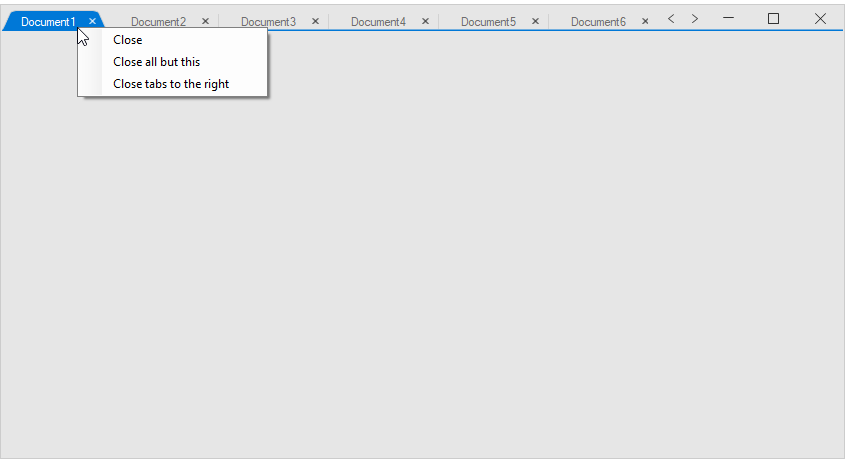
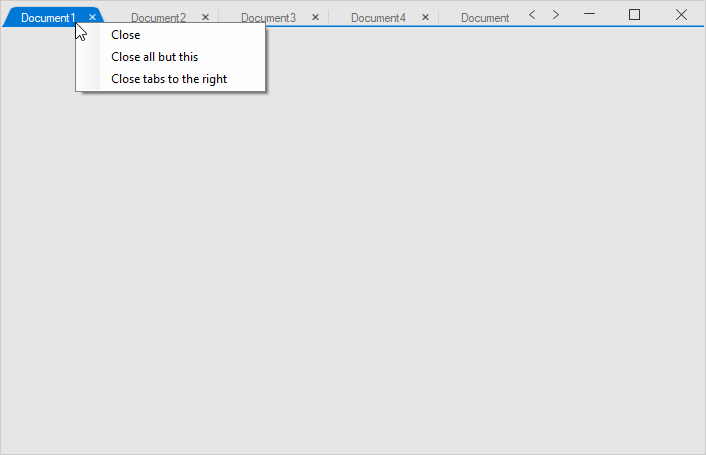
Changes have been done as per the concerns given.

Changed region(s): [[0.0, 0.0, 1.0, 0.2154]]

diff --git a/WindowsForms/SfTabbedForm/TabSelection.md b/WindowsForms/SfTabbedForm/TabSelection.md
@@ -1,0 +1,102 @@
+---
+layout: post
+title: TabSelection | TabbedForm | WindowsForms | Syncfusion
+description: This section explains about programmatic selection of tab in SfTabbedForm.
+platform: WindowsForms
+control: SfTabbedForm
+documentation: ug
+---
+
+# Tab Selection
+
+Tab selection can be done programmatically using the [TabbedFormControl.SelectedIndex](https://help.syncfusion.com/cr/windowsforms/Syncfusion.Tools.Windows~Syncfusion.Windows.Forms.Tools.SfTabbedFormControl~SelectedIndex.html) and [TabbedFormControl.SelectedTab](https://help.syncfusion.com/cr/windowsforms/Syncfusion.Tools.Windows~Syncfusion.Windows.Forms.Tools.SfTabbedFormControl~SelectedTab.html) property.
+
+{% tabs %}
+{% highlight c# %}
+
+this.tabbedFormControl.SelectedIndex = 1;
+
+or
+
+this.tabbedFormControl.SelectedTab = tabPageAdv2;
+
+{% endhighlight %}
+{% highlight vb %}
+
+Me.tabbedFormControl.SelectedIndex = 1
+
+or
+
+Me.tabbedFormControl.SelectedTab = tabPageAdv2
+
+{% endhighlight %}
+{% endtabs %}
+
+![tabbed form](Tab-Selection-images/Tab-Selection-images_img1.png)
+
+## SelectedIndex Changing event 
+
+[SelectedIndexChanging](https://help.syncfusion.com/cr/windowsforms/Syncfusion.Tools.Windows~Syncfusion.Windows.Forms.Tools.SfTabbedFormControl~SelectedIndexChanging_EV.html) event occurs while changing the [SelectedIndex](https://help.syncfusion.com/cr/windowsforms/Syncfusion.Tools.Windows~Syncfusion.Windows.Forms.Tools.SfTabbedFormControl~SelectedIndex.html) or [SelectedTab](https://help.syncfusion.com/cr/windowsforms/Syncfusion.Tools.Windows~Syncfusion.Windows.Forms.Tools.SfTabbedFormControl~SelectedTab.html) of the [TabbedFormControl](https://help.syncfusion.com/cr/cref_files/windowsforms/Syncfusion.Tools.Windows~Syncfusion.Windows.Forms.Tools.SfTabbedForm~TabbedFormControl.html). Tab Selection can be restricted by setting args.Cancel to `true`.
+
+{% tabs %}
+{% highlight c# %}
+
+this.tabbedFormControl.SelectedIndexChanging += TabbedFormControl_SelectedIndexChanging;
+
+private void TabbedFormControl_SelectedIndexChanging(object sender, SelectedIndexChangingEventArgs args)
+{
+    if (this.tabbedFormControl.SelectedIndex == 2)
+    {
+        args.Cancel = true;
+    }
+}
+
+{% endhighlight %}
+{% highlight vb %}
+
+Private Me.tabbedFormControl.SelectedIndexChanging += AddressOf TabbedFormControl_SelectedIndexChanging
+
+Private Sub TabbedFormControl_SelectedIndexChanging(ByVal sender As Object, ByVal args As SelectedIndexChangingEventArgs)
+	If Me.tabbedFormControl.SelectedIndex = 2 Then
+		args.Cancel = True
+	End If
+End Sub
+
+{% endhighlight %}
+{% endtabs %}
+
+## SelectedIndex Changed event 
+
+[SelectedIndexChanged](https://help.syncfusion.com/cr/windowsforms/Syncfusion.Tools.Windows~Syncfusion.Windows.Forms.Tools.SfTabbedFormControl~SelectedIndexChanged_EV.html) event occurs when the [SelectedIndex](https://help.syncfusion.com/cr/windowsforms/Syncfusion.Tools.Windows~Syncfusion.Windows.Forms.Tools.SfTabbedFormControl~SelectedIndex.html) or [SelectedTab](https://help.syncfusion.com/cr/windowsforms/Syncfusion.Tools.Windows~Syncfusion.Windows.Forms.Tools.SfTabbedFormControl~SelectedTab.html) of the [TabbedFormControl](https://help.syncfusion.com/cr/cref_files/windowsforms/Syncfusion.Tools.Windows~Syncfusion.Windows.Forms.Tools.SfTabbedForm~TabbedFormControl.html) is changed. 
+
+{% tabs %}
+{% highlight c# %}
+
+this.tabbedFormControl.SelectedIndexChanged += TabbedFormControl_SelectedIndexChanged;
+
+private void TabbedFormControl_SelectedIndexChanged(object sender, EventArgs e)
+{
+    var tabs = tabbedFormControl.Tabs.OfType<TabPageAdv>();
+    foreach (var tab in tabs)
+    {
+        if (this.tabbedFormControl.SelectedTab == tab)
+            Console.WriteLine("Selected Tab:" + tab.Text);
+    }
+}
+
+{% endhighlight %}
+{% highlight vb %}
+
+Private Me.tabbedFormControl.SelectedIndexChanged += AddressOf TabbedFormControl_SelectedIndexChanged
+
+Private Sub TabbedFormControl_SelectedIndexChanged(ByVal sender As Object, ByVal e As EventArgs)
+	Dim tabs = tabbedFormControl.Tabs.OfType(Of TabPageAdv)()
+	For Each tab In tabs
+		If Me.tabbedFormControl.SelectedTab Is tab Then
+			Console.WriteLine("Selected Tab:" & tab.Text)
+		End If
+	Next tab
+End Sub
+
+{% endhighlight %}
+{% endtabs %}

diff --git a/WindowsForms/SfTabbedForm/TabNavigation.md b/WindowsForms/SfTabbedForm/TabNavigation.md
@@ -9,78 +9,7 @@ documentation: ug
 
 # Tab Navigation
 
-Tab Primitives is a collection of NavigationControls used to navigate through the [TabPages](https://help.syncfusion.com/cr/windowsforms/Syncfusion.Tools.Windows~Syncfusion.Windows.Forms.Tools.TabControlAdv~TabPages.html) of `SfTabbedForm`. The Tab Primitives can be added to the `SfTabbedForm` using the `TabPrimitiveMode` property.
-The various tab primitives used to perform navigation through tabs are,
-<table>
-<tr>
-<td>
-{{'**TabPrimitives**'| markdownify }}
-</td>
-<td>
-{{'**Description**'| markdownify }}
-</td>
-</tr>
-<tr>
-<td>
-{{'FirstTab'| markdownify }}        
-</td>
-<td>
-Navigate to the first tab.
-</td>
-</tr>
-<tr>
-<td>
-{{'LastTab'| markdownify }}
-</td>
-<td>
-Navigate to the last tab.
-</td>
-</tr>
-<tr>
-<td>
-{{'PreviousTab'| markdownify }}
-</td>
-<td>
-Navigate to the Previous tab.
-</td>
-</tr>
-<tr>
-<td>
-{{'NextTab'| markdownify }}        
-</td>
-<td>
-Navigate to the Next tab.
-</td>
-</tr>
-<tr>
-<td>
-{{'PreviousPage'| markdownify }}
-</td>
-<td>
-Navigate to the previous page.
-</td>
-</tr>
-<tr>
-<td>
-{{'NextPage'| markdownify }}
-</td>
-<td>
-Navigate to the next page.
-</td>
-</tr>
-<tr>
-<td>
-{{'DropDown'| markdownify }}
-</td>
-<td>
-This pops-up a list of the available tab pages in the control from which the user can select the page to be traversed.
-</td>
-</tr>
-</table>
-
-## Adding Tab Primitives to TabbedForm
-
-The tab primitives can be added to the `SfTabbedForm` using the `tabbedFormControl.TabPrimitiveMode` property.
+Tab Navigation consist of the set of inbuild controls such as first tab,last tab,dropdown etc which is used to navigate through the [TabPages](https://help.syncfusion.com/cr/windowsforms/Syncfusion.Tools.Windows~Syncfusion.Windows.Forms.Tools.TabControlAdv~TabPages.html). The navigation controls can be added to the tabbed form using the [TabbedFormControl.TabPrimitiveMode](https://help.syncfusion.com/cr/windowsforms/Syncfusion.Tools.Windows~Syncfusion.Windows.Forms.Tools.TabPrimitiveMode.html) property.
 
 {% tabs %}
 {% highlight c# %}
@@ -92,3 +21,31 @@ tabbedFormControl.TabPrimitiveMode = TabPrimitiveMode.DropDown Or TabPrimitiveMo
 {% endtabs %}  
 
 ![tabbed form](TabPrimitives_images/TabPrimitives_images_img1.gif)
+
+## TabPrimitiveClick event
+
+This [TabPrimitiveClick](https://help.syncfusion.com/cr/windowsforms/Syncfusion.Tools.Windows~Syncfusion.Windows.Forms.Tools.SfTabbedFormControl~TabPrimitiveClick_EV.html) event occurs before the NavigationButton click. The following `TabPrimitiveClickEventArgs` properties provide information specific to this event.
+
+{% tabs %}
+{% highlight c# %}
+
+this.tabbedFormControl.TabPrimitiveClick += TabbedFormControl_TabPrimitiveClick;
+
+private void TabbedFormControl_TabPrimitiveClick(object sender, TabPrimitiveClickEventArgs e)
+{
+    Console.WriteLine("TabPrimitive Type:" + e.TabPrimitive.TabPrimitiveType);
+}
+
+{% endhighlight %}
+{% highlight vb %}
+
+Private Me.tabbedFormControl.TabPrimitiveClick += AddressOf TabbedFormControl_TabPrimitiveClick
+
+Private Sub TabbedFormControl_TabPrimitiveClick(ByVal sender As Object, ByVal e As TabPrimitiveClickEventArgs)
+	Console.WriteLine("TabPrimitive Type:" & e.TabPrimitive.TabPrimitiveType)
+End Sub
+
+{% endhighlight %}
+{% endtabs %}
+
+

diff --git a/WindowsForms/SfTabbedForm/ContextMenu.md b/WindowsForms/SfTabbedForm/ContextMenu.md
@@ -9,11 +9,55 @@ documentation: ug
 
 # Context Menu
 
-The context menu for the `SfTabbedForm` can be set by using `tabbedFormControl.TabContextMenu` property.
+The context menu for the tabbed form can be set by using [TabbedFormControl.TabContextMenu](https://help.syncfusion.com/cr/windowsforms/Syncfusion.Tools.Windows~Syncfusion.Windows.Forms.Tools.SfTabbedFormControl~TabContextMenu.html) property.
+
+{% tabs %}
+{% highlight c# %}
+public Form1()
+{
+    InitializeComponent();
+    tabbedFormControl = new SfTabbedFormControl();
+
+    for (int i = 1; i <= 15; i++)
+        tabbedFormControl.Tabs.Add(new TabPageAdv() { Text = "Document" + i });
+
+    this.Controls.Add(tabbedFormControl);
+
+    this.TabbedFormControl = tabbedFormControl;
+
+    #region Context Menu Customization
+    ContextMenuStrip tabContextMenu = new ContextMenuStrip();
+    tabContextMenu.Items.Add("Close", null, OnCloseMenuClicked);
+    tabbedFormControl.TabContextMenu = tabContextMenu;
+
+}
+{% endhighlight %}
+{% highlight vb %}
+Public Sub New()
+	InitializeComponent()
+	tabbedFormControl = New SfTabbedFormControl()
+
+	For i As Integer = 1 To 15
+		tabbedFormControl.Tabs.Add(New TabPageAdv() With {.Text = "Document" & i})
+	Next i
+
+	Me.Controls.Add(tabbedFormControl)
+
+	Me.TabbedFormControl = tabbedFormControl
+
+	#Region "Context Menu Customization"
+	Dim tabContextMenu As New ContextMenuStrip()
+	tabContextMenu.Items.Add("Close", Nothing, OnCloseMenuClicked)
+	tabbedFormControl.TabContextMenu = tabContextMenu
+End Sub
+{% endhighlight %}
+{% endtabs %}
+
+![tabbed form](ContextMenu_Images/ContextMenu_Images_img2.png)
 
 ## Customize context menu in tabs like web browser
 
-The context menu can be customized while opening the context menu by handling the `ContextMenuOpening` event. The below code example shows how to provide context menu in tabs like web browser by using the `TabContextMenu` property.
+The context menu can be customized while opening the context menu by handling the [ContextMenuOpening](https://help.syncfusion.com/cr/windowsforms/Syncfusion.Tools.Windows~Syncfusion.Windows.Forms.Tools.SfTabbedFormControl~ContextMenuOpening_EV.html) event. The below code example shows how to provide context menu in tabs like web browser by using the [TabContextMenu](https://help.syncfusion.com/cr/windowsforms/Syncfusion.Tools.Windows~Syncfusion.Windows.Forms.Tools.SfTabbedFormControl~TabContextMenu.html) property.
 
 {% tabs %}
 {% highlight c# %}

diff --git a/WindowsForms/SfTabbedForm/Getting-Started.md b/WindowsForms/SfTabbedForm/Getting-Started.md
@@ -121,28 +121,3 @@ Me.ExtendTabsToTitleBar = False
 
 ![tabbed form](Getting-Started_images/Getting-Started_img2.png)
 
-## Programmatic Tab Selection
-
-Tab selection can be done programmatically using the `tabbedFormControl.SelectedIndex` and `tabbedFormControl.SelectedTab` property.
-
-{% tabs %}
-{% highlight c# %}
-this.tabbedFormControl.SelectedIndex = 1;
-{% endhighlight %}
-{% highlight vb %}
-Me.tabbedFormControl.SelectedIndex = 1
-{% endhighlight %}
-{% endtabs %}
-
-![tabbed form](Getting-Started_images/Getting-Started_img4.png)
-
-{% tabs %}
-{% highlight c# %}
-this.tabbedFormControl.SelectedTab = tabPageAdv4;
-{% endhighlight %}
-{% highlight vb %}
-Me.tabbedFormControl.SelectedTab = tabPageAdv4
-{% endhighlight %}
-{% endtabs %}
-
-![tabbed form](Getting-Started_images/Getting-Started_img3.png)

diff --git a/WindowsForms/SfTabbedForm/Draganddroptabs.md b/WindowsForms/SfTabbedForm/Draganddroptabs.md
@@ -9,7 +9,7 @@ documentation: ug
 
 # Drag and drop tabs
 
-SfTabbedForm allow drag and drop the tabs within the form by setting `tabbedFormControl.AllowDraggingTabs` property as true.
+Tabbed Form allows move the tabs from one position to another position by dragging and dropping the corresponding tab. This can be done by setting the `TabbedFormControl.AllowDraggingTabs` property as true.
 
 {% tabs %}
 {% highlight c# %}
